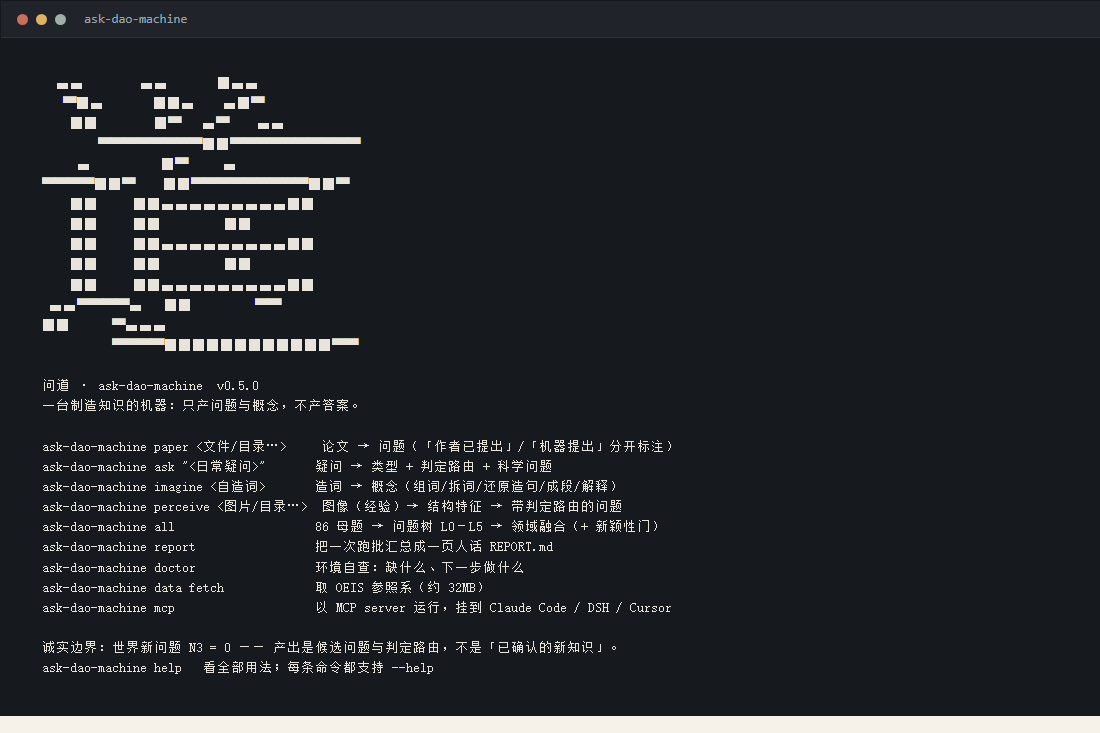
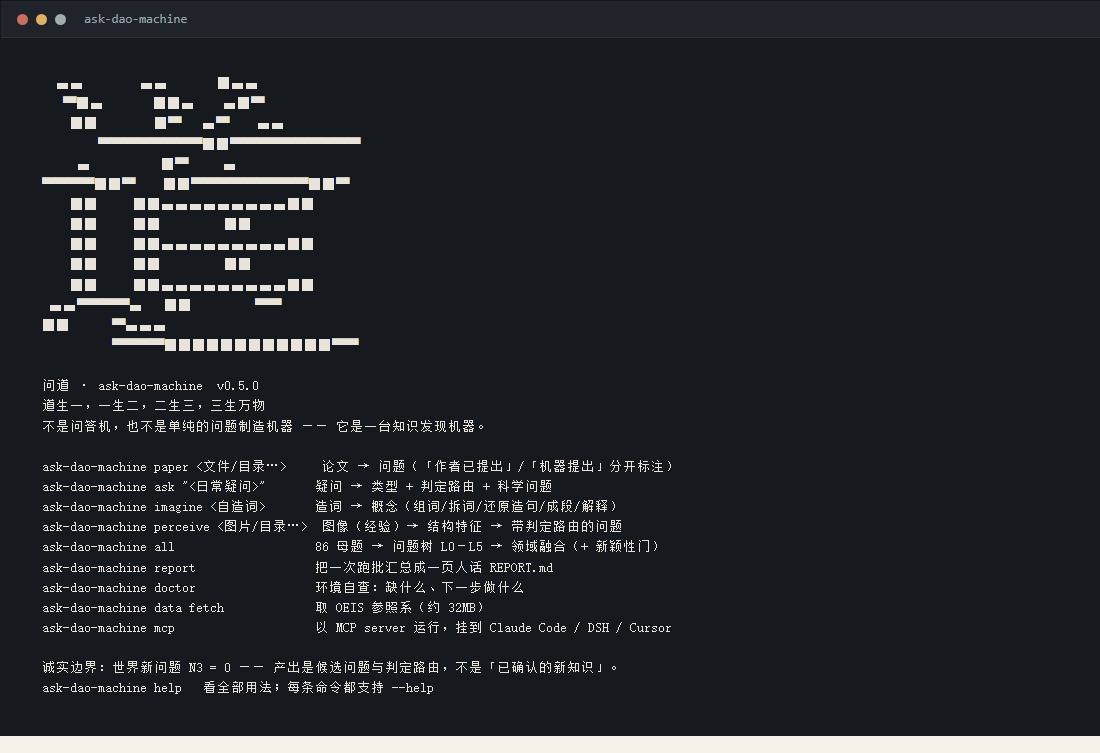
站点新增 CLI 产品单元（装法/徽标/九个动作/三条约定）+ 页脚署名改 shikunpunk + 文案改为道生一/知识发现机器

diff --git a/docs/index.html b/docs/index.html
@@ -377,6 +377,7 @@
   <a href="#paths">两条路</a>
   <a href="#knowledge">什么是新知识</a>
   <a href="#structure">系统结构</a>
+  <a href="#cli">命令行</a>
   <a href="#tree">问题生成树</a>
   <a href="#results">结果与证据</a>
   <a href="#questions">问题清单</a>
@@ -527,19 +528,6 @@
       <p>产概念，需解释。两条路互相独立。</p></div>
   </div>
 
-  <div class="label">Entry</div>
-  <h3 style="font-size:19px;margin:6px 0 10px">敲 <code>ask-dao-machine</code> 进去看到的东西</h3>
-  <p class="lead" style="margin-bottom:14px">没有参数时它先报身份：<strong>「道」的徽标</strong> + 命令速查。
-    徽标不是手绘的图案，是把系统字体里「道」的位图取出来转成字符画，并做过反向校验
-    （字符画还原回位图与原字体位图逐点一致）；着色只用朱砂，正文用终端默认前景色，
-    浅底深底都不会看不见。子命令不打印徽标、不上色，因此可以直接进管道。</p>
-
-  <figure class="figure">
-    <img src="assets/cli-banner.png" alt="ask-dao-machine 进入时的道徽标与命令速查">
-    <figcaption>真实输出（<code>ASK_DAO_COLOR=1</code> 保留颜色后的回放）·
-      全部命令与可复用约定见 <a class="inline" href="guide/cli.html">命令行</a></figcaption>
-  </figure>
-
   <div class="label">Real Use · Biomedicine</div>
   <h3 style="font-size:19px;margin:6px 0 10px">真实使用：一篇开放获取论文的全过程（含真实命令）</h3>
   <p class="lead" style="margin-bottom:14px">下面是<strong>一次真实运行</strong>的完整回放：抓论文 → 生成问题 → 看报告 → 逐条查看。
@@ -629,6 +617,85 @@ python -c "import json;d=json.load(open('out/biomed_demo/problems_paper.json',en
     <figcaption>系统架构 · 图内每个数字与状态词都对应仓库实现或 <code>out/demo/*.json</code> 的真实记录
       （生成脚本 <code>tools/arch_diagram.py</code>）</figcaption>
   </figure>
+</section>
+
+<!-- ==================== 命令行产品 ==================== -->
+<section id="cli">
+  <div class="label">CLI · ask-dao-machine</div>
+  <h2>命令行：<em>一个命令，九个动作</em></h2>
+  <p class="lead">道生一，一生二，二生三，三生万物。<strong>它不是问答机，也不是单纯的问题制造机器 ——
+    是一台知识发现机器。</strong>装好之后只有一个命令 <code>ask-dao-machine</code>：敲它就报身份，
+    敲参数就干活；产出固定落在 <code>--out</code> 目录，可以直接接进管道与脚本。</p>
+
+  <pre class="term"><span class="c"># 装（Python 3.9+；核心零依赖）</span>
+<span class="cmd">$</span> git clone https://github.com/shikunpneg/ask-dao-machine &amp;&amp; cd ask-dao-machine
+<span class="cmd">$</span> pip install -e .
+
+<span class="c"># 用：无参数先报身份（徽标 + 命令速查），有参数就干活</span>
+<span class="cmd">$</span> ask-dao-machine
+<span class="cmd">$</span> ask-dao-machine paper papers/biomed/PMC13331974.md --domain biomed --out out/biomed_demo</pre>
+
+  <figure class="figure">
+    <img src="assets/cli-banner.png" alt="ask-dao-machine 进入时的「道」徽标与命令速查">
+    <figcaption>敲 <code>ask-dao-machine</code> 进去看到的东西 · 徽标是把系统字体里「道」的位图转成字符画
+      （反向校验逐点一致），着色只用朱砂，正文用终端默认前景色，浅底深底都看得见</figcaption>
+  </figure>
+
+  <table class="data-table">
+    <caption>九个动作：你要做的事 → 命令 → 得到什么</caption>
+    <tr><th style="width:210px">你要做的事</th><th style="width:330px">命令</th><th>得到什么</th></tr>
+    <tr><td>读一篇论文，找出作者没提的问题</td>
+      <td class="mono">paper &lt;文件/目录…&gt; [--domain biomed]</td>
+      <td>问题清单 + <code>REPORT.md</code>；「作者已提出」与「机器提出」分开标注</td></tr>
+    <tr><td>把一句日常疑问变成可判问题</td>
+      <td class="mono">ask "&lt;疑问&gt;"</td>
+      <td>类型判定 + 判定路由 <code>route</code> + 形式化后的科学问题</td></tr>
+    <tr><td>造一个词，逼它自洽</td>
+      <td class="mono">imagine &lt;自造词&gt; [--depth 3]</td>
+      <td>概念链：组词 → 拆词 → 还原造句 → 成段 → 解释</td></tr>
+    <tr><td>从图像（经验）里长出问题</td>
+      <td class="mono">perceive &lt;图片/目录…&gt;</td>
+      <td>结构特征（对称度/块熵/边界密度…）+ 带路由的问题</td></tr>
+    <tr><td>全领域跑一批问题树</td>
+      <td class="mono">all</td>
+      <td>86 母题 → 问题树 L0–L5 → 领域融合 → 新颖性门</td></tr>
+    <tr><td>只跑一个领域</td>
+      <td class="mono">math | records | combo | counterex | …</td>
+      <td>该域问题 JSON（可选 <code>--limits '{"N":100000}'</code>）</td></tr>
+    <tr><td>把一堆产出汇总成一页人话</td>
+      <td class="mono">report [--out DIR]</td>
+      <td><code>&lt;out&gt;/REPORT.md</code>：不用自己翻十个 JSON</td></tr>
+    <tr><td>确认这台机器能不能跑</td>
+      <td class="mono">doctor</td>
+      <td>Python / 依赖 / 引擎 / 参照系 / 输出目录 / 测试，全绿即可用</td></tr>
+    <tr><td>取参照系（新颖性门要用）</td>
+      <td class="mono">data fetch</td>
+      <td><code>data/stripped.gz</code>（约 32MB，来自 OEIS）</td></tr>
+    <tr><td>挂到 Agent 宿主里当工具用</td>
+      <td class="mono">mcp</td>
+      <td>MCP server（stdio）：Claude Code / DSH / Cursor 可挂载</td></tr>
+    <tr><td>看全部用法 / 版本</td>
+      <td class="mono">help · --version</td>
+      <td>徽标 + 速查；每条子命令都支持 <code>--help</code></td></tr>
+  </table>
+
+  <table class="data-table" style="margin-bottom:44px">
+    <caption>可复用的三条约定（脚本里靠得住）</caption>
+    <tr><th style="width:190px">约定</th><th>说明</th></tr>
+    <tr><td>产出固定</td><td>全部落在 <code>--out</code> 目录：<code>problems_*.json</code>（机器可读、每条带
+      <code>route</code>）+ <code>REPORT.md</code>（一页人话）；同一个 <code>--out</code> 能继续接
+      <code>report</code></td></tr>
+    <tr><td>管道友好</td><td>子命令<strong>不打印徽标、不上色</strong>，可直接
+      <code>ask-dao-machine paper papers/ --out out/p | tail -3</code></td></tr>
+    <tr><td>退出码有意义</td><td><code>0</code> 完成 · <code>2</code> 参数/路径/格式问题（细节在 stderr）·
+      <code>1</code> 其它失败</td></tr>
+  </table>
+
+  <p class="note" style="color:var(--dim);font-size:13px;line-height:1.9">
+    完整说明（含徽标怎么来的）：<a class="inline" href="guide/cli.html">命令行</a> ·
+    真实使用回放（论文 → 问题 → 报告）：<a class="inline" href="guide/demo-biomed.html">生物医学完整演示</a> ·
+    装进 Claude Code / DSH / Cursor：<a class="inline" href="#structure">系统结构</a> 里的宿主矩阵。
+  </p>
 </section>
 
 <!-- ==================== 问题生成树 ==================== -->
@@ -800,7 +867,7 @@ python -c "import json;d=json.load(open('out/biomed_demo/problems_paper.json',en
     </div>
     <div>
       <h3>DEVELOPER</h3>
-      <p>shikunpneg · 问道项目主理人<br>问题制造器 / 想象路 / 知识发现机器</p>
+      <p><a href="https://github.com/shikunpneg" target="_blank" rel="noopener">shikunpunk</a> · 问道项目主理人<br>问题制造器 / 想象路 / 知识发现机器</p>
     </div>
     <div>
       <h3>PROJECT</h3>

diff --git a/tools/site/home.html b/tools/site/home.html
@@ -377,6 +377,7 @@
   <a href="#paths">两条路</a>
   <a href="#knowledge">什么是新知识</a>
   <a href="#structure">系统结构</a>
+  <a href="#cli">命令行</a>
   <a href="#tree">问题生成树</a>
   <a href="#results">结果与证据</a>
   <a href="#questions">问题清单</a>
@@ -527,19 +528,6 @@
       <p>产概念，需解释。两条路互相独立。</p></div>
   </div>
 
-  <div class="label">Entry</div>
-  <h3 style="font-size:19px;margin:6px 0 10px">敲 <code>ask-dao-machine</code> 进去看到的东西</h3>
-  <p class="lead" style="margin-bottom:14px">没有参数时它先报身份：<strong>「道」的徽标</strong> + 命令速查。
-    徽标不是手绘的图案，是把系统字体里「道」的位图取出来转成字符画，并做过反向校验
-    （字符画还原回位图与原字体位图逐点一致）；着色只用朱砂，正文用终端默认前景色，
-    浅底深底都不会看不见。子命令不打印徽标、不上色，因此可以直接进管道。</p>
-
-  <figure class="figure">
-    <img src="assets/cli-banner.png" alt="ask-dao-machine 进入时的道徽标与命令速查">
-    <figcaption>真实输出（<code>ASK_DAO_COLOR=1</code> 保留颜色后的回放）·
-      全部命令与可复用约定见 <a class="inline" href="guide/cli.html">命令行</a></figcaption>
-  </figure>
-
   <div class="label">Real Use · Biomedicine</div>
   <h3 style="font-size:19px;margin:6px 0 10px">真实使用：一篇开放获取论文的全过程（含真实命令）</h3>
   <p class="lead" style="margin-bottom:14px">下面是<strong>一次真实运行</strong>的完整回放：抓论文 → 生成问题 → 看报告 → 逐条查看。
@@ -629,6 +617,85 @@ python -c "import json;d=json.load(open('out/biomed_demo/problems_paper.json',en
     <figcaption>系统架构 · 图内每个数字与状态词都对应仓库实现或 <code>out/demo/*.json</code> 的真实记录
       （生成脚本 <code>tools/arch_diagram.py</code>）</figcaption>
   </figure>
+</section>
+
+<!-- ==================== 命令行产品 ==================== -->
+<section id="cli">
+  <div class="label">CLI · ask-dao-machine</div>
+  <h2>命令行：<em>一个命令，九个动作</em></h2>
+  <p class="lead">道生一，一生二，二生三，三生万物。<strong>它不是问答机，也不是单纯的问题制造机器 ——
+    是一台知识发现机器。</strong>装好之后只有一个命令 <code>ask-dao-machine</code>：敲它就报身份，
+    敲参数就干活；产出固定落在 <code>--out</code> 目录，可以直接接进管道与脚本。</p>
+
+  <pre class="term"><span class="c"># 装（Python 3.9+；核心零依赖）</span>
+<span class="cmd">$</span> git clone https://github.com/shikunpneg/ask-dao-machine &amp;&amp; cd ask-dao-machine
+<span class="cmd">$</span> pip install -e .
+
+<span class="c"># 用：无参数先报身份（徽标 + 命令速查），有参数就干活</span>
+<span class="cmd">$</span> ask-dao-machine
+<span class="cmd">$</span> ask-dao-machine paper papers/biomed/PMC13331974.md --domain biomed --out out/biomed_demo</pre>
+
+  <figure class="figure">
+    <img src="assets/cli-banner.png" alt="ask-dao-machine 进入时的「道」徽标与命令速查">
+    <figcaption>敲 <code>ask-dao-machine</code> 进去看到的东西 · 徽标是把系统字体里「道」的位图转成字符画
+      （反向校验逐点一致），着色只用朱砂，正文用终端默认前景色，浅底深底都看得见</figcaption>
+  </figure>
+
+  <table class="data-table">
+    <caption>九个动作：你要做的事 → 命令 → 得到什么</caption>
+    <tr><th style="width:210px">你要做的事</th><th style="width:330px">命令</th><th>得到什么</th></tr>
+    <tr><td>读一篇论文，找出作者没提的问题</td>
+      <td class="mono">paper &lt;文件/目录…&gt; [--domain biomed]</td>
+      <td>问题清单 + <code>REPORT.md</code>；「作者已提出」与「机器提出」分开标注</td></tr>
+    <tr><td>把一句日常疑问变成可判问题</td>
+      <td class="mono">ask "&lt;疑问&gt;"</td>
+      <td>类型判定 + 判定路由 <code>route</code> + 形式化后的科学问题</td></tr>
+    <tr><td>造一个词，逼它自洽</td>
+      <td class="mono">imagine &lt;自造词&gt; [--depth 3]</td>
+      <td>概念链：组词 → 拆词 → 还原造句 → 成段 → 解释</td></tr>
+    <tr><td>从图像（经验）里长出问题</td>
+      <td class="mono">perceive &lt;图片/目录…&gt;</td>
+      <td>结构特征（对称度/块熵/边界密度…）+ 带路由的问题</td></tr>
+    <tr><td>全领域跑一批问题树</td>
+      <td class="mono">all</td>
+      <td>86 母题 → 问题树 L0–L5 → 领域融合 → 新颖性门</td></tr>
+    <tr><td>只跑一个领域</td>
+      <td class="mono">math | records | combo | counterex | …</td>
+      <td>该域问题 JSON（可选 <code>--limits '{"N":100000}'</code>）</td></tr>
+    <tr><td>把一堆产出汇总成一页人话</td>
+      <td class="mono">report [--out DIR]</td>
+      <td><code>&lt;out&gt;/REPORT.md</code>：不用自己翻十个 JSON</td></tr>
+    <tr><td>确认这台机器能不能跑</td>
+      <td class="mono">doctor</td>
+      <td>Python / 依赖 / 引擎 / 参照系 / 输出目录 / 测试，全绿即可用</td></tr>
+    <tr><td>取参照系（新颖性门要用）</td>
+      <td class="mono">data fetch</td>
+      <td><code>data/stripped.gz</code>（约 32MB，来自 OEIS）</td></tr>
+    <tr><td>挂到 Agent 宿主里当工具用</td>
+      <td class="mono">mcp</td>
+      <td>MCP server（stdio）：Claude Code / DSH / Cursor 可挂载</td></tr>
+    <tr><td>看全部用法 / 版本</td>
+      <td class="mono">help · --version</td>
+      <td>徽标 + 速查；每条子命令都支持 <code>--help</code></td></tr>
+  </table>
+
+  <table class="data-table" style="margin-bottom:44px">
+    <caption>可复用的三条约定（脚本里靠得住）</caption>
+    <tr><th style="width:190px">约定</th><th>说明</th></tr>
+    <tr><td>产出固定</td><td>全部落在 <code>--out</code> 目录：<code>problems_*.json</code>（机器可读、每条带
+      <code>route</code>）+ <code>REPORT.md</code>（一页人话）；同一个 <code>--out</code> 能继续接
+      <code>report</code></td></tr>
+    <tr><td>管道友好</td><td>子命令<strong>不打印徽标、不上色</strong>，可直接
+      <code>ask-dao-machine paper papers/ --out out/p | tail -3</code></td></tr>
+    <tr><td>退出码有意义</td><td><code>0</code> 完成 · <code>2</code> 参数/路径/格式问题（细节在 stderr）·
+      <code>1</code> 其它失败</td></tr>
+  </table>
+
+  <p class="note" style="color:var(--dim);font-size:13px;line-height:1.9">
+    完整说明（含徽标怎么来的）：<a class="inline" href="guide/cli.html">命令行</a> ·
+    真实使用回放（论文 → 问题 → 报告）：<a class="inline" href="guide/demo-biomed.html">生物医学完整演示</a> ·
+    装进 Claude Code / DSH / Cursor：<a class="inline" href="#structure">系统结构</a> 里的宿主矩阵。
+  </p>
 </section>
 
 <!-- ==================== 问题生成树 ==================== -->
@@ -800,7 +867,7 @@ python -c "import json;d=json.load(open('out/biomed_demo/problems_paper.json',en
     </div>
     <div>
       <h3>DEVELOPER</h3>
-      <p>shikunpneg · 问道项目主理人<br>问题制造器 / 想象路 / 知识发现机器</p>
+      <p><a href="https://github.com/shikunpneg" target="_blank" rel="noopener">shikunpunk</a> · 问道项目主理人<br>问题制造器 / 想象路 / 知识发现机器</p>
     </div>
     <div>
       <h3>PROJECT</h3>

diff --git a/src/ask_dao_machine/banner.py b/src/ask_dao_machine/banner.py
@@ -27,7 +27,8 @@ DAO_ART = [
     "          ▀▀▀▀████████████▀▀",
 ]
 
-TAGLINE = "一台制造知识的机器：只产问题与概念，不产答案。"
+TAGLINE = "道生一，一生二，二生三，三生万物"
+TAGLINE2 = "不是问答机，也不是单纯的问题制造机器 —— 它是一台知识发现机器。"
 HONESTY = "诚实边界：世界新问题 N3 = 0 —— 产出是候选问题与判定路由，不是「已确认的新知识」。"
 
 # (命令, 说明) —— 保持短、可组合、能直接复制着跑
@@ -92,6 +93,7 @@ def render(color: bool | None = None, stream=None, width: int | None = None) -> 
     L.append("")
     L.append("   " + c(_B, "问道 · ask-dao-machine") + c(_D, f"  v{version()}"))
     L.append("   " + c(_D, TAGLINE))
+    L.append("   " + c(_D, TAGLINE2))
     L.append("")
     labels = [f"ask-dao-machine {cmd}" for cmd, _ in COMMANDS]
     pad = max(_dw(s) for s in labels) + 2
